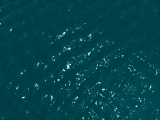
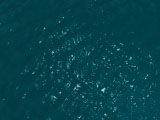
Crossfade ocean background

diff --git a/frontend/app/class/ocean.js b/frontend/app/class/ocean.js
@@ -3,7 +3,7 @@
 	exports.Ocean = function(game, settings) {
 		this.c = game.c;
 		initObject(this, settings);
-		this.spriteSheet = new SpriteSheet('./resource/ocean/maya/untitled.', 48, undefined, 0.5, '.jpg');
+		this.spriteSheet = new SpriteSheet('./resource/ocean/maya/untitled.', 45, undefined, 0.5, '.jpg');
 	};
 
 	exports.Ocean.prototype = {
